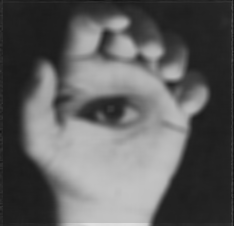
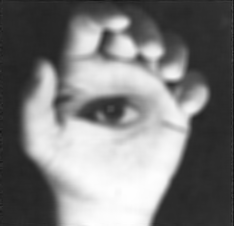
Ajuste filtro separavel

diff --git a/main.py b/main.py
@@ -14,16 +14,15 @@ def filtro_media_separavel(img, heigth, width):
     img_out = img.copy()
     for y in range(0, heigth):
         primeiro = True
-        guarda_valor = 0
-        for x in range(0 + JANELA, width - JANELA):
-            soma = 0
+        soma = 0
+        for x in range(JANELA, width - JANELA):
             if primeiro:
-                guarda_valor = img[y][x - JANELA]
                 for w in range(x - JANELA, x + JANELA + 1):
                     soma += img[y][w]
+                primeiro = False
             else:
-                soma = soma - guarda_valor + img[y][x + JANELA + 1]
-            img_out[y][x] = soma / ((JANELA + 1) * 2)
+                soma = soma - img[y][x - JANELA-1] + img[y][x + JANELA]
+            img_out[y][x] = soma / (JANELA*2+1)
 
     img_out2 = img_out.copy()
     for x in range(0 + JANELA, width - JANELA):
@@ -31,7 +30,7 @@ def filtro_media_separavel(img, heigth, width):
             soma = 0
             for h in range(y - JANELA, y + JANELA + 1):
                 soma += img_out[h][x]
-            img_out2[y][x] = soma / ((JANELA + 1) * 2)
+            img_out2[y][x] = soma / ((JANELA*2+1))
 
     return img_out2
 
